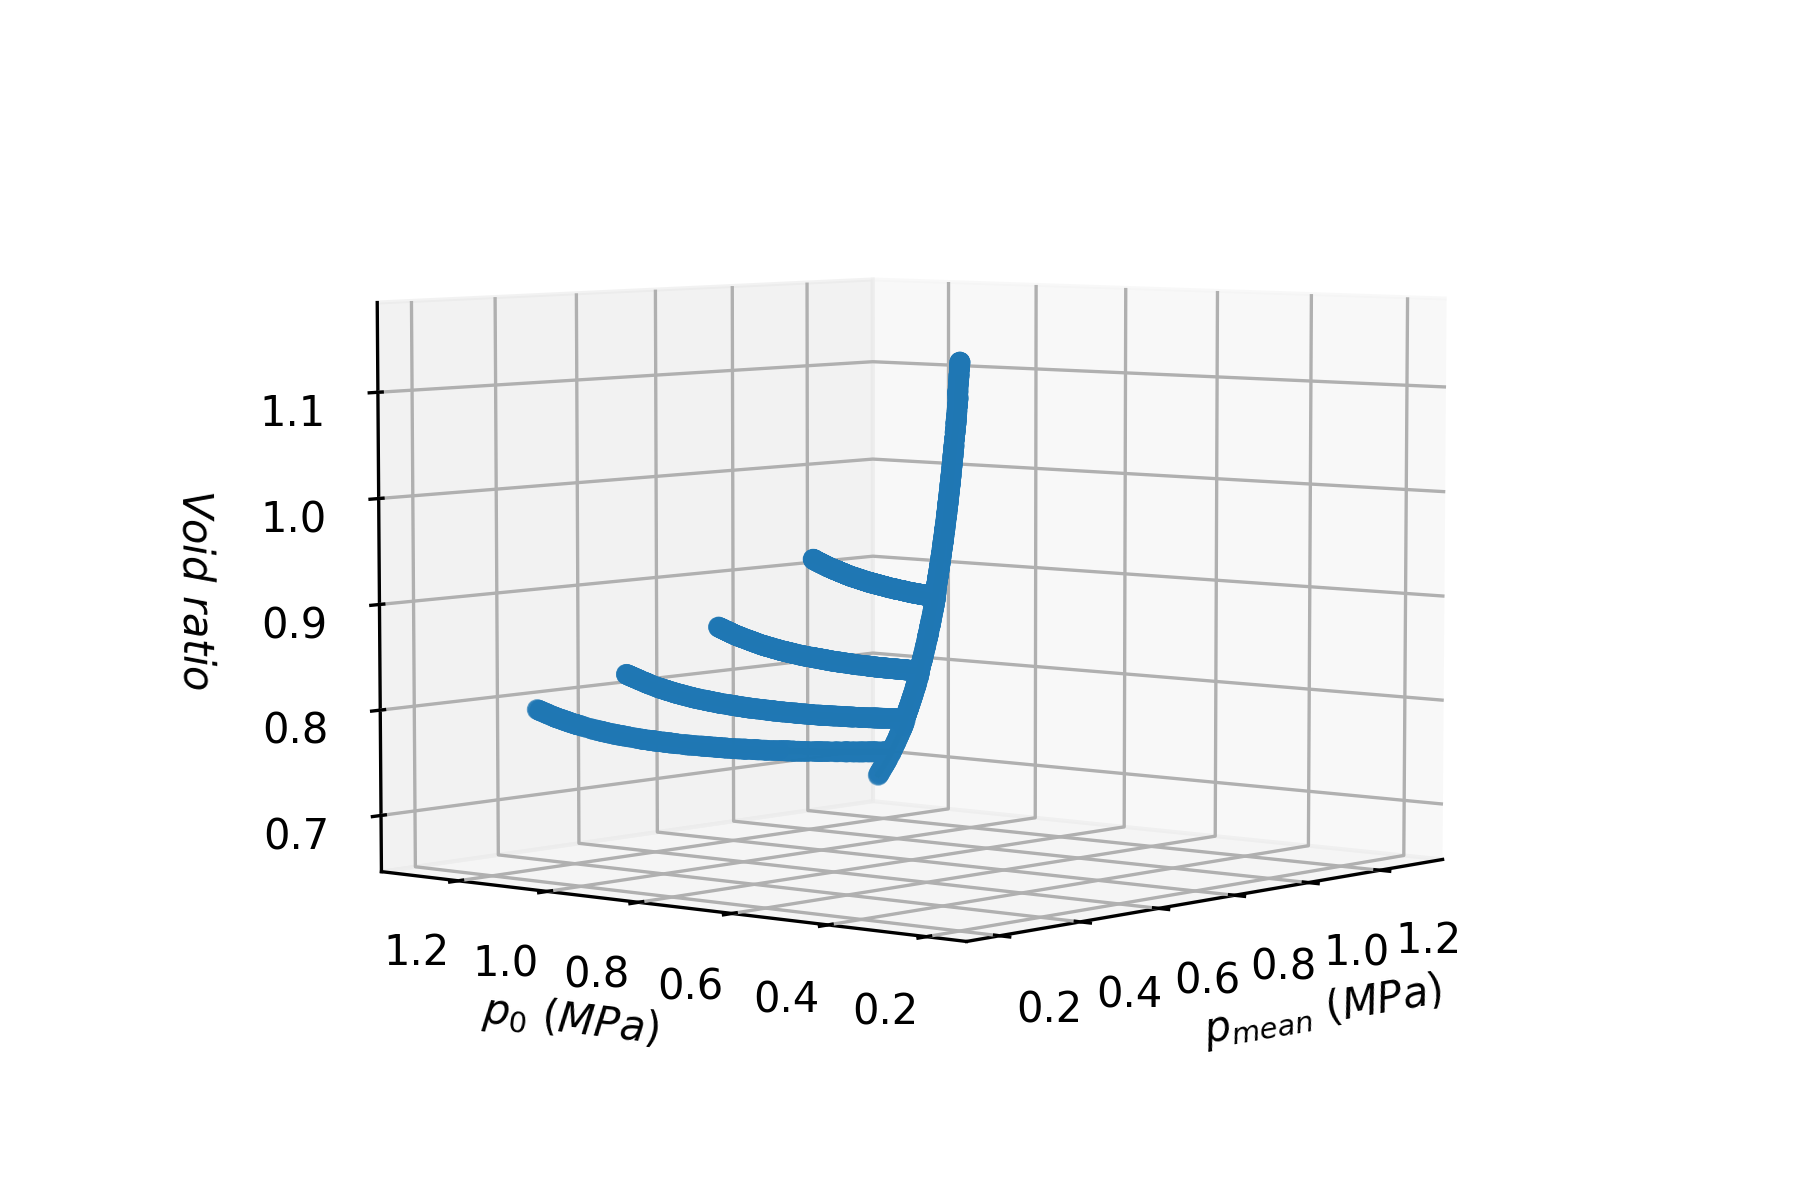
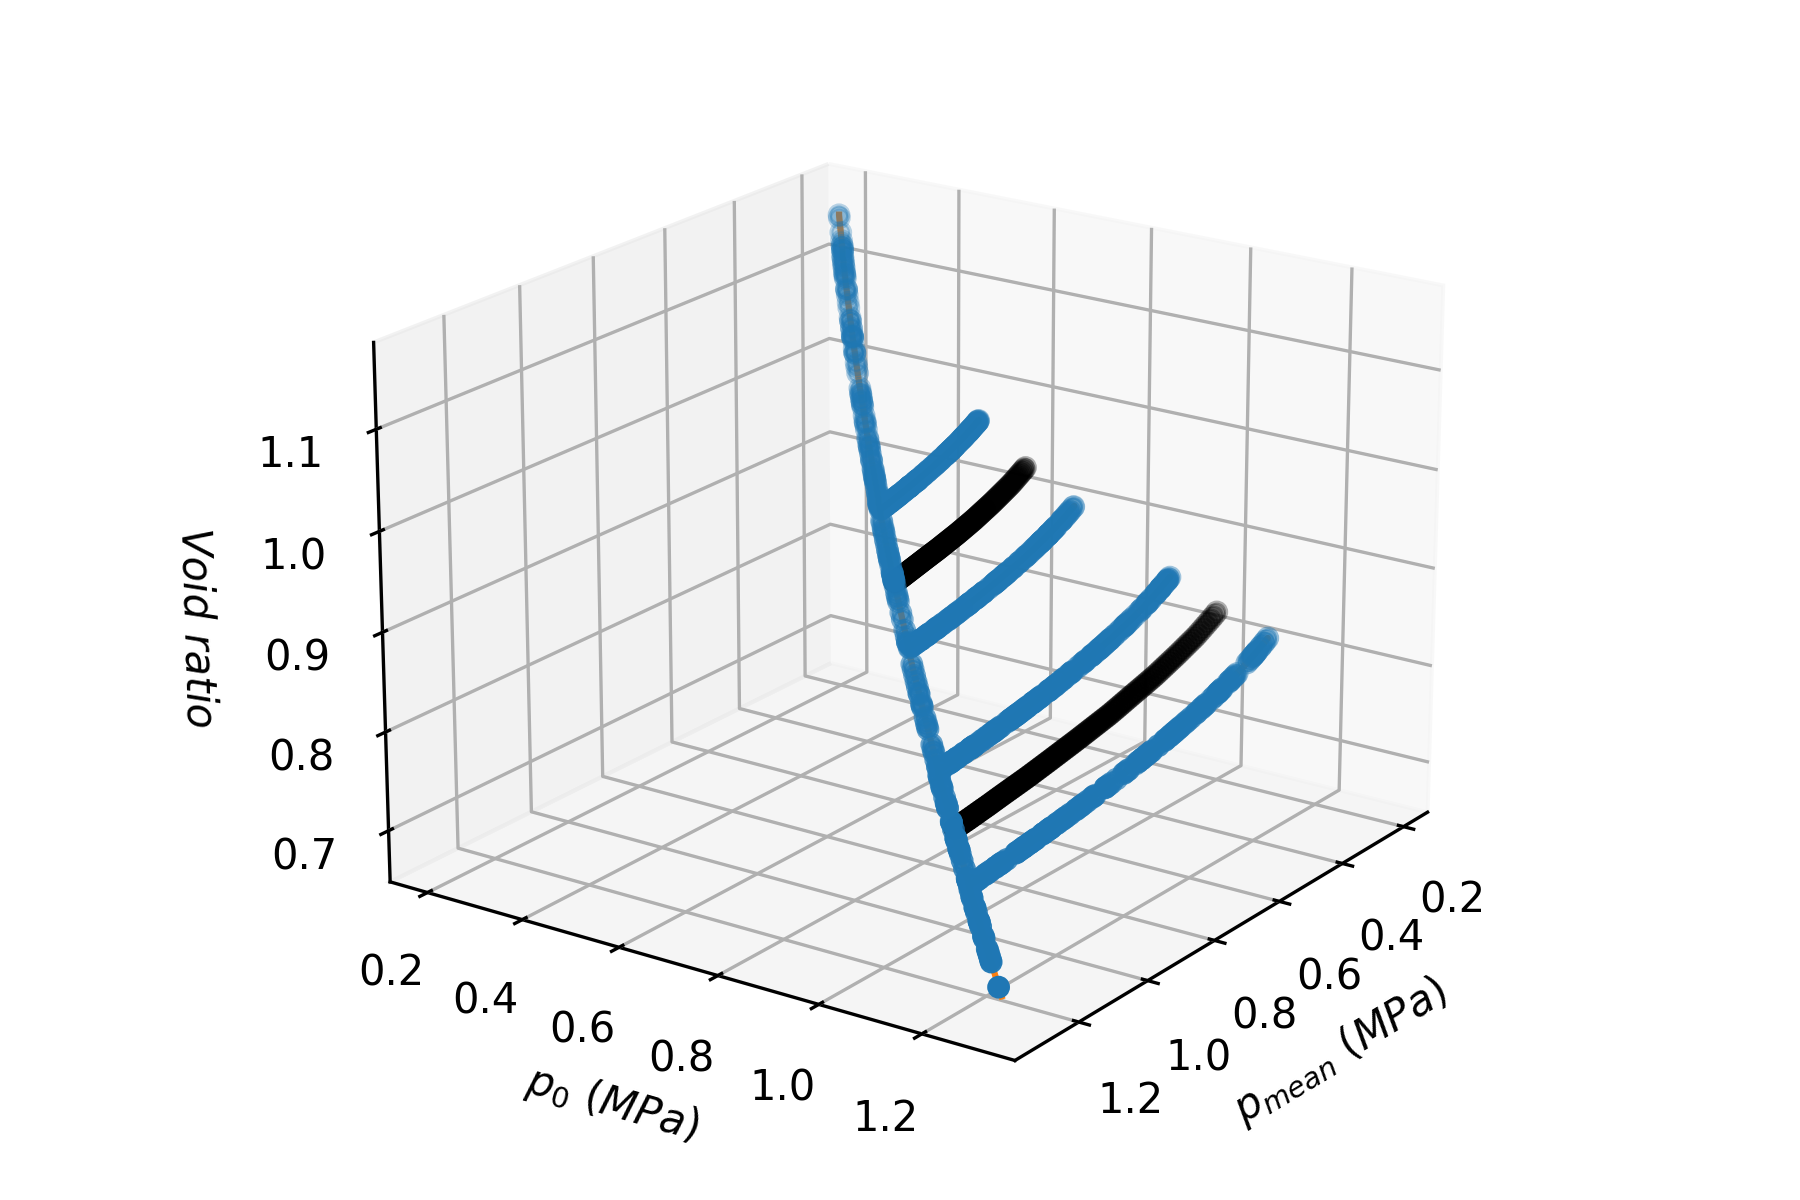
inclusao de ramos fake

diff --git a/camclay.py b/camclay.py
@@ -54,11 +54,11 @@ ymin = np.min(y)
 x    = (x - xmin)/(xmax - xmin)
 y    = (y - ymin)/(ymax - ymin)
 # Sets ########################################################################
-rate = 0.5
-rt   = 0.5*(1 - rate)
-ntrain = np.int(n*rate)
-nteste = np.int(n*rt)
-nvalid = np.int(n - (ntrain + nteste))
+rtrain = 0.5
+rvalid = 0.4
+ntrain = np.int(n*rtrain)
+nvalid = np.int(n*rvalid)
+nteste = np.int(n - (nvalid + ntrain))
 lista = list(range(n))
 random.shuffle(lista)
 xvalid = x[lista[0:nvalid],:]
@@ -71,7 +71,7 @@ ytrain = y[lista[nvalid+nteste:-1]]
 inputshape = (2,)
 lrate      = 0.0001
 num_class  = 1
-epochs     = 250
+epochs     = 400
 batch_size = 64
 model = tf.keras.models.Sequential([
     tf.keras.layers.Flatten(input_shape=inputshape),
@@ -127,13 +127,13 @@ predict = model.predict(xteste)
 predict = np.reshape(predict,(np.size(predict),))
 
 # Return to original data #####################################################
-x    = x*(xmax - xmin) + xmin
-y    = y*(ymax - ymin) + ymin
+x      = x*(xmax - xmin) + xmin
+y      = y*(ymax - ymin) + ymin
 xteste = xteste *(xmax - xmin) + xmin
 yteste = yteste *(ymax - ymin) + ymin
 predict= predict*(ymax - ymin) + ymin
-er    = np.abs(predict - yteste)/np.abs(yteste)
-erroR = np.mean(er)
+er     = np.abs(predict - yteste)/np.abs(yteste)
+erroR  = np.mean(er)
 
 hist_error_rel(er,80,namep)
 
@@ -142,6 +142,32 @@ print('\nErro relativo..........: {:5.3}%'.format(erroR*100))
 print('Erro relativo máximo...: {:5.3}%'.format(np.max(er)*100))
 print('==============================================\n')
 
+# Data "fake" (not in the original data) ######################################
+n = 100
+xfake = np.zeros((n,2))
+a = 1.00
+b = 0.20
+m = (b-a)/n
+for i in range(n):
+    xfake[i,0] = a + (i)*m
+    xfake[i,1] = a
+xfake1 = np.zeros((n,2))
+a = 0.60
+b = 0.20
+m = (b-a)/n
+for i in range(n):
+    xfake1[i,0] = a + (i)*m
+    xfake1[i,1] = a
+xfake  = (xfake - xmin)/(xmax - xmin)
+yfake  = model.predict(xfake)
+yfake  = np.reshape(yfake,(np.size(yfake),))
+xfake  = xfake*(xmax - xmin) + xmin
+yfake  = yfake*(ymax - ymin) + ymin
+xfake1 = (xfake1 - xmin)/(xmax - xmin)
+yfake1 = model.predict(xfake1)
+yfake1 = np.reshape(yfake1,(np.size(yfake1),))
+xfake1 = xfake1*(xmax - xmin) + xmin
+yfake1 = yfake1*(ymax - ymin) + ymin
 # Plot data ###################################################################
 fig = plt.figure(constrained_layout=True)
 fig, axs = plt.subplots(nrows=1,ncols=2, constrained_layout=True)
@@ -155,6 +181,8 @@ axs[0].set_xlabel('$p_{mean}\ (MPa)$', fontsize=18, weight='bold', color='k')
 axs[1].plot(xteste[:,0],predict,'bo',label='predict')
 #axs[1].plot(xteste[:,0],yteste,'r+',label='true')
 axs[1].plot(x[:,0],y,'tab:orange',linewidth=3,label='true data')
+axs[1].plot(xfake[:,0],yfake,'-k',linewidth=3,label='fake data 0')
+axs[1].plot(xfake1[:,0],yfake1,'-k',linewidth=3,label='fake data 1')
 axs[1].set_title('CamClay',fontsize=18)
 axs[1].tick_params(axis="x", labelsize=16)
 axs[1].tick_params(axis="y", labelsize=16)
@@ -170,11 +198,13 @@ fig = plt.figure(constrained_layout=True)
 ax  = plt.axes(projection='3d')
 ax.plot3D(x[:,0],x[:,1],y[:],'tab:orange', linewidth=1.5)
 #ax.scatter(x[:,0],x[:,1],y[:],cmap='viridis', linewidth=0.5)
-ax.scatter(xteste[:,0],xteste[:,1],predict, color='tab:blue', linewidth=0.5)
+ax.scatter(xteste[:,0],xteste[:,1],predict, color='tab:blue', linewidth=1)
+ax.scatter(xfake[:,0],xfake[:,1],yfake, color='k', linewidth=1)
+ax.scatter(xfake1[:,0],xfake1[:,1],yfake1, color='k', linewidth=1)
 ax.set_xlabel('$p_{mean}\ (MPa)$')
 ax.set_ylabel('$p_0\ (MPa)$')
 ax.set_zlabel('$Void\ ratio$')
-ax.view_init(5, -140)
+ax.view_init(20, 35)
 name = 'figuras/camclay_network3d.png'
 plt.savefig(name, transparent=True, dpi=300)
 plt.show()
